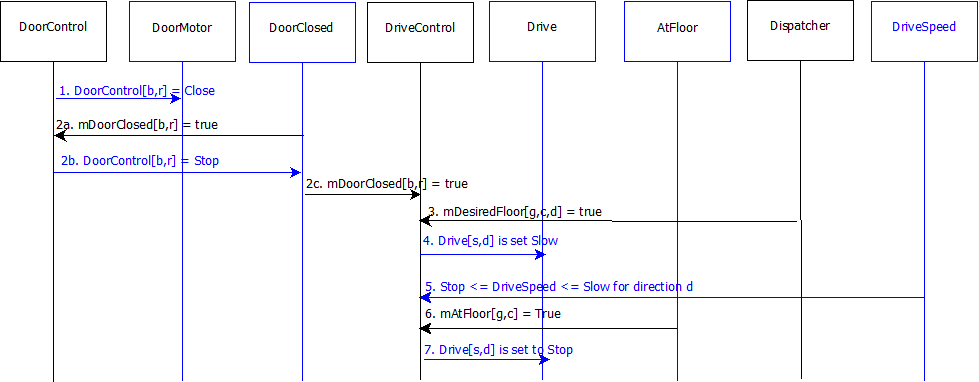
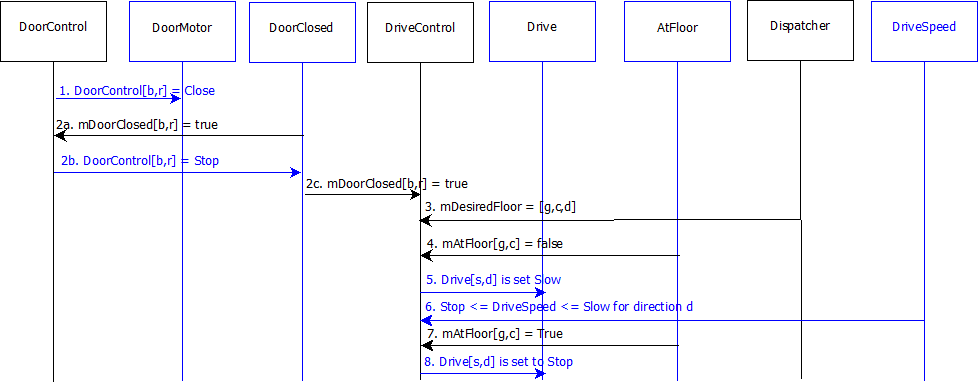
change 8A again

Changed region(s): [[0.429, 0.7199, 0.7354, 0.9791], [0.429, 0.6047, 0.5822, 0.6911], [0.429, 0.5183, 0.6129, 0.5759]]

diff --git a/logs/issuelog.html b/logs/issuelog.html
@@ -133,6 +133,25 @@
           <td style="vertical-align: top;">Sequence diagram for scenario 8A<br>
           </td>
         </tr>
+
+        <tr>
+          <td style="vertical-align: top;">4<br>
+          </td>
+          <td style="vertical-align: top;">Sep. 19th 2013<br>
+          </td>
+          <td style="vertical-align: top;">Sep. 19th 2013<br>
+          </td>
+          <td style="vertical-align: top;">Wenhui Hu<br>
+          </td>
+          <td style="vertical-align: top;">Wenhui Hu<br>
+          </td>
+          <td style="vertical-align: top;">Scenario 8A missing one network mAtLevel messages before moving.<br>
+          </td>
+          <td style="vertical-align: top;">added missing mAtLevel[g,c] = false <br>
+          </td>
+          <td style="vertical-align: top;">Scenario and Sequence diagram for scenario 8A<br>
+          </td>
+        </tr>
       </tbody>
     </table>
     <br>

diff --git a/scen_sd/scen_sd.html b/scen_sd/scen_sd.html
@@ -587,6 +587,7 @@
         <li>Door[<b>b</b>,<b>r</b>] starts closing. </li>
         <li>Door[<b>b</b>,<b>r</b>] completes closing. </li>
         <li> Dispatcher sets mDesiredFloor[g,c,d] as true.</li>
+        <li> Car is not at floor[g,c]</li>
         <li>Drive() is set to <b>Slow</b> for direction <b>d</b>. </li>
         <li>Car starts moving towards floor <b>g</b>, DriveSpeed is between Stop and Slow for direction d. </li>
         <li>Car arrives at floor <b>g</b>. </li>
